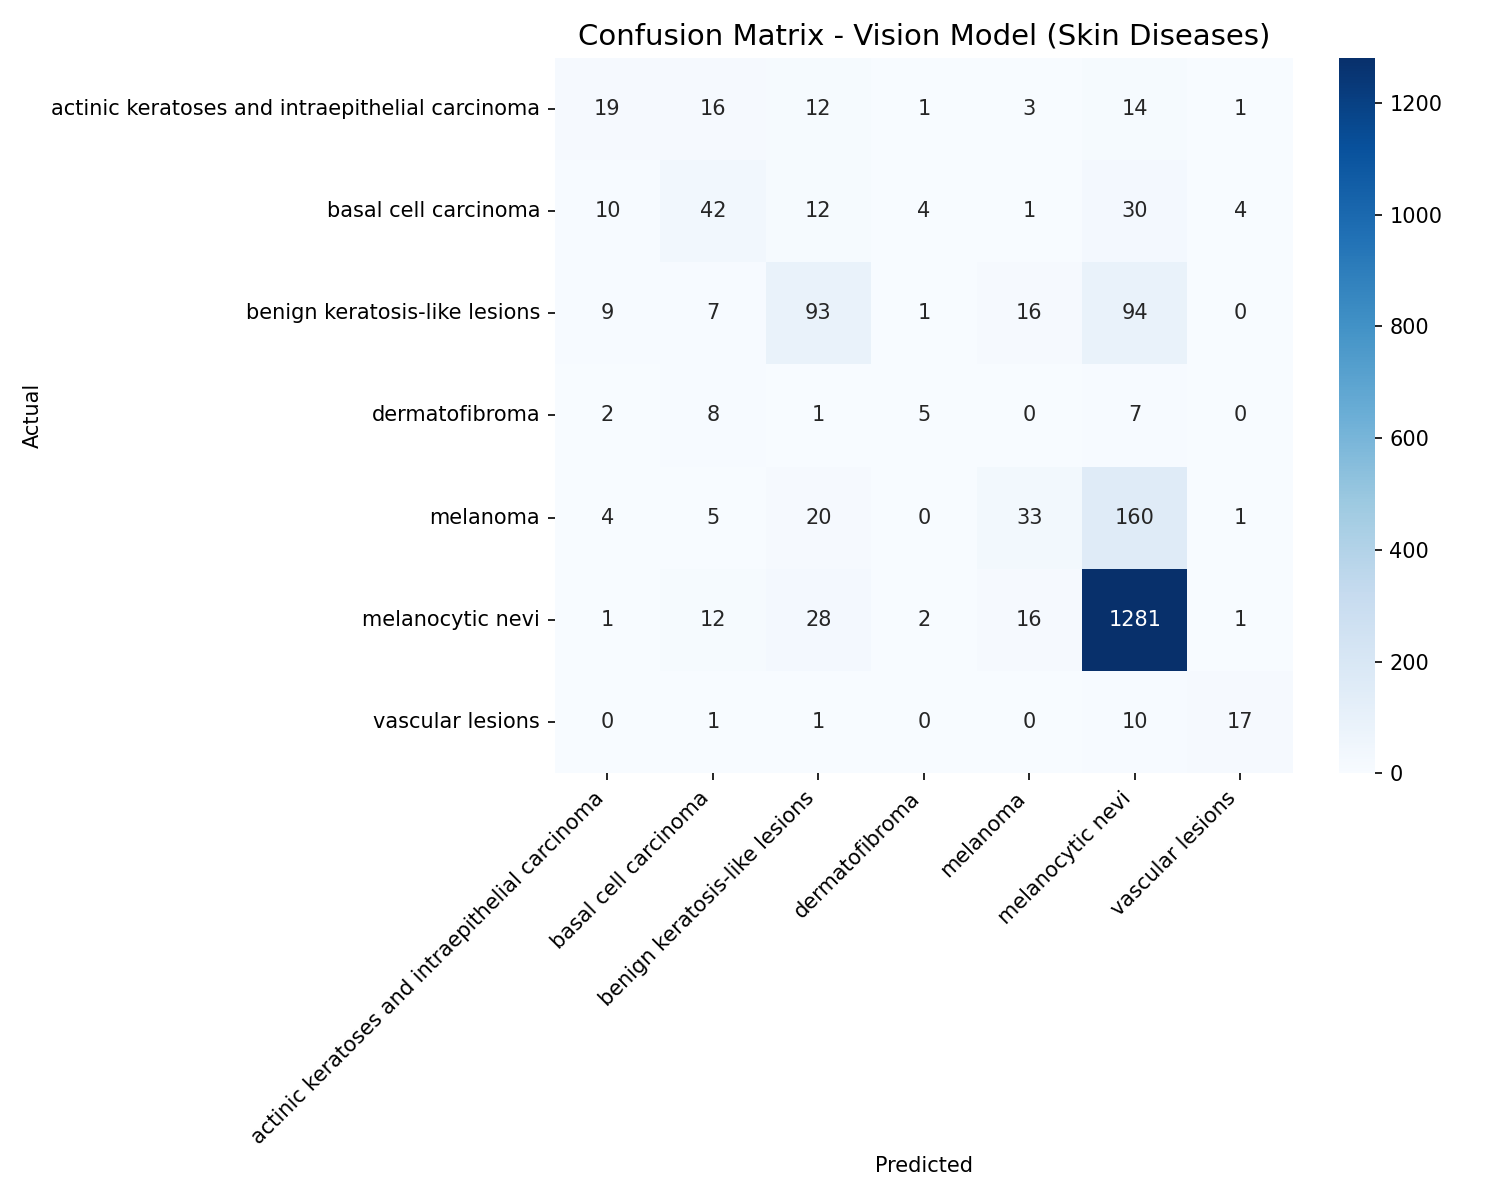
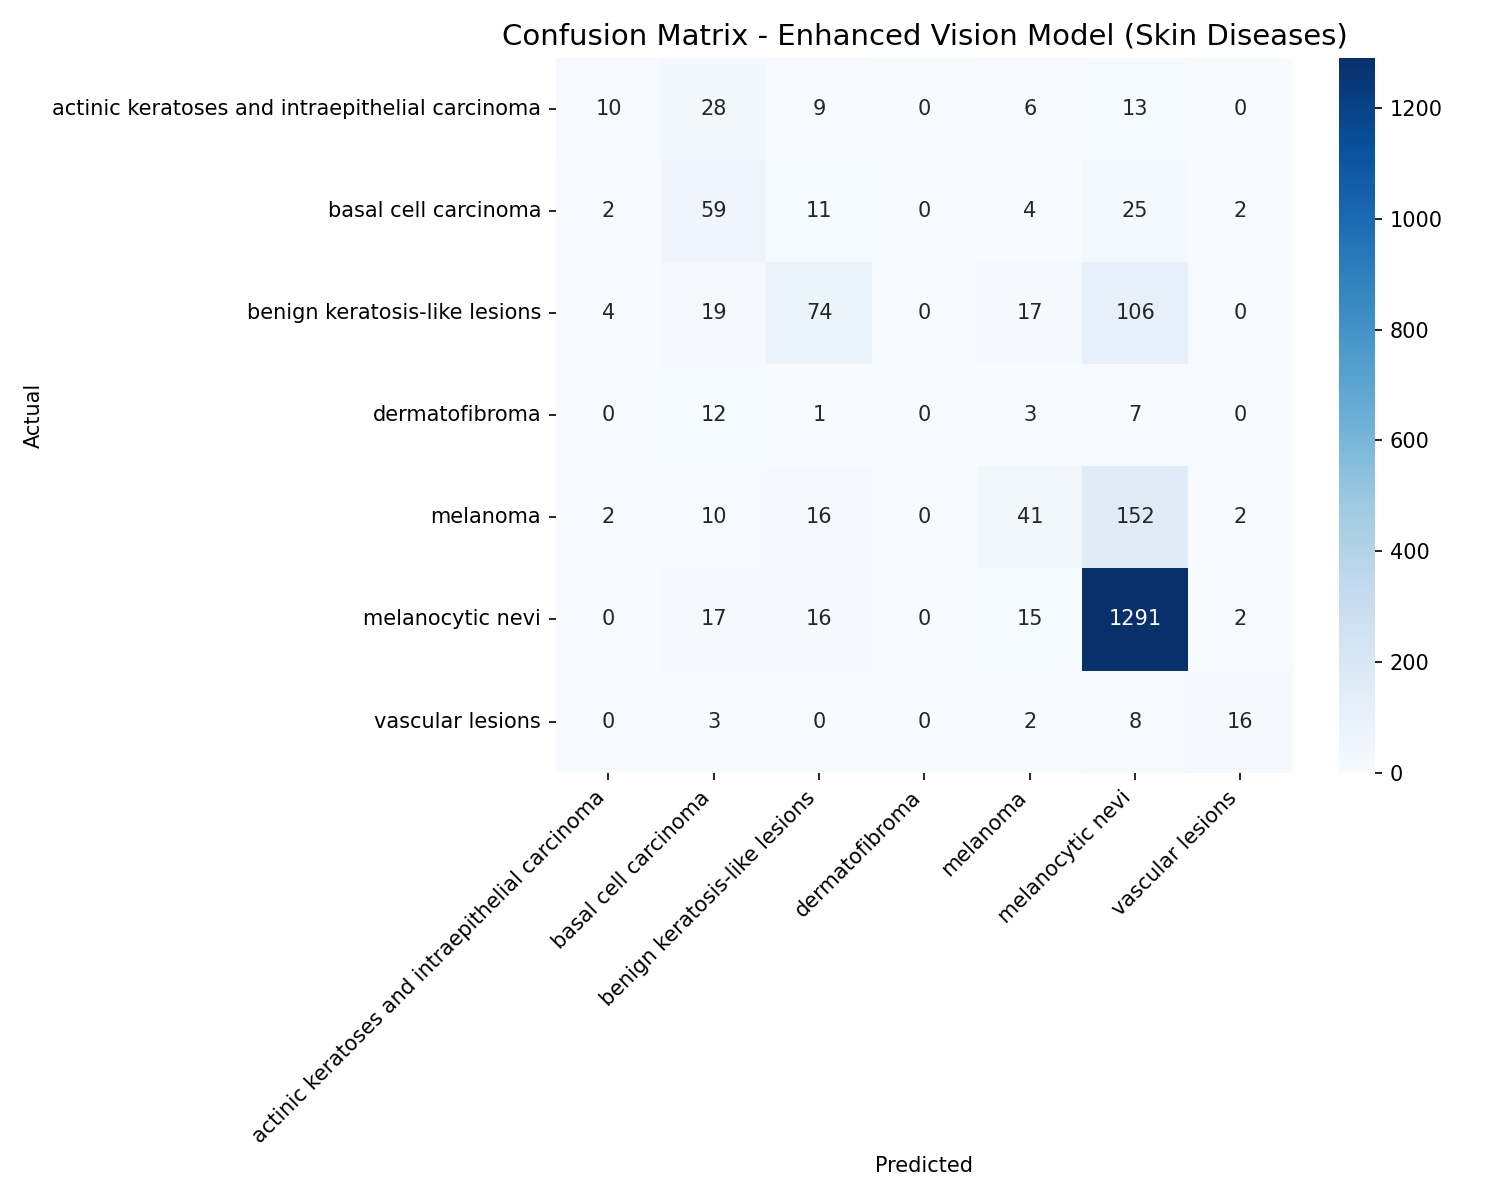
feat: Increase vision model training epochs, introduce new calibrated and enhanced disease models, and update evaluation results.

diff --git a/evaluate_models.py b/evaluate_models.py
@@ -260,7 +260,7 @@ optimizer = torch.optim.Adam(model.parameters(), lr=0.001, weight_decay=1e-4)
 scheduler = torch.optim.lr_scheduler.ReduceLROnPlateau(optimizer, mode='max', factor=0.5, patience=3)
 
 # Training with history
-epochs = 10
+epochs = 25
 train_losses = []
 train_accuracies = []
 val_accuracies = []
